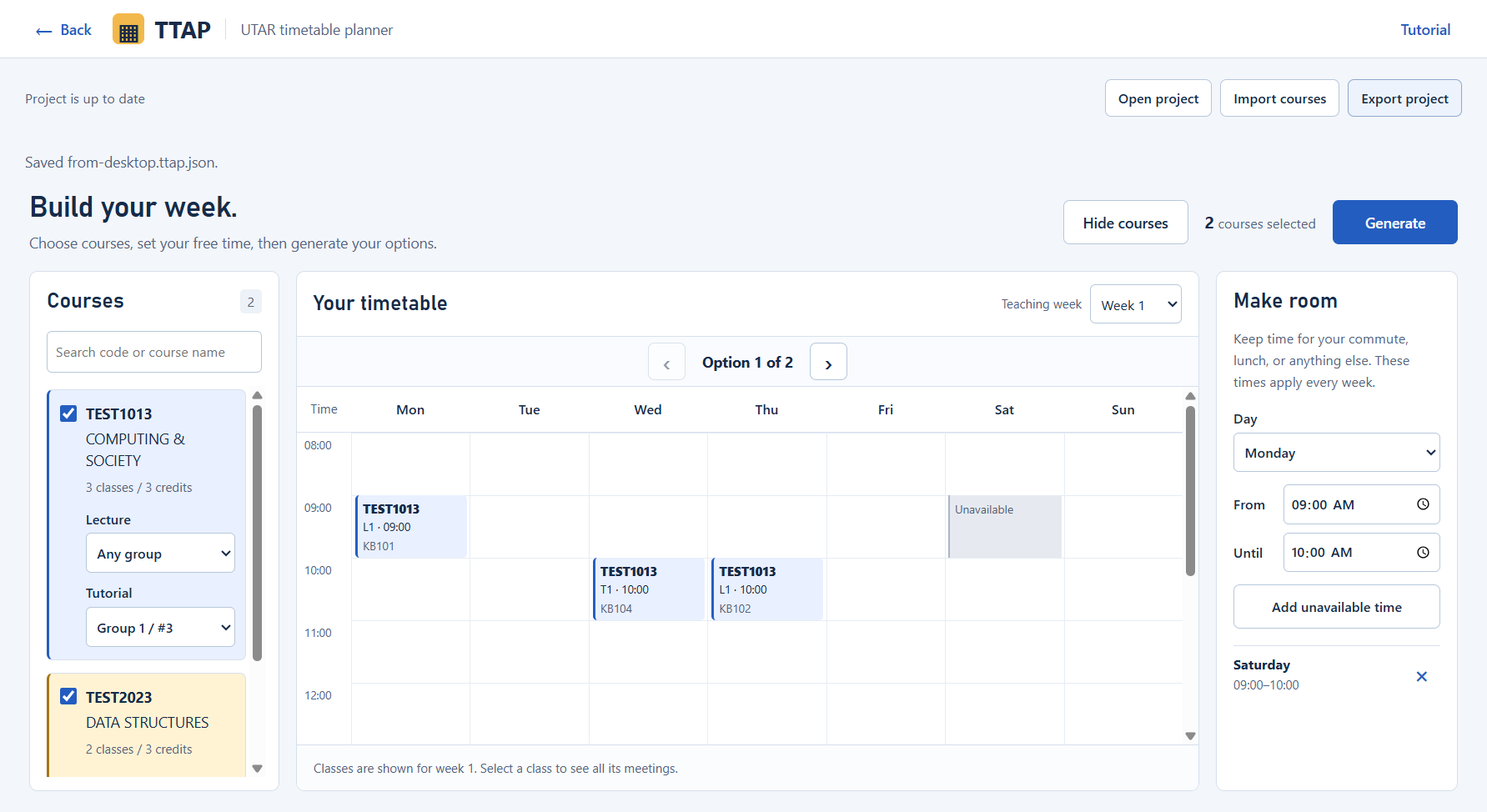
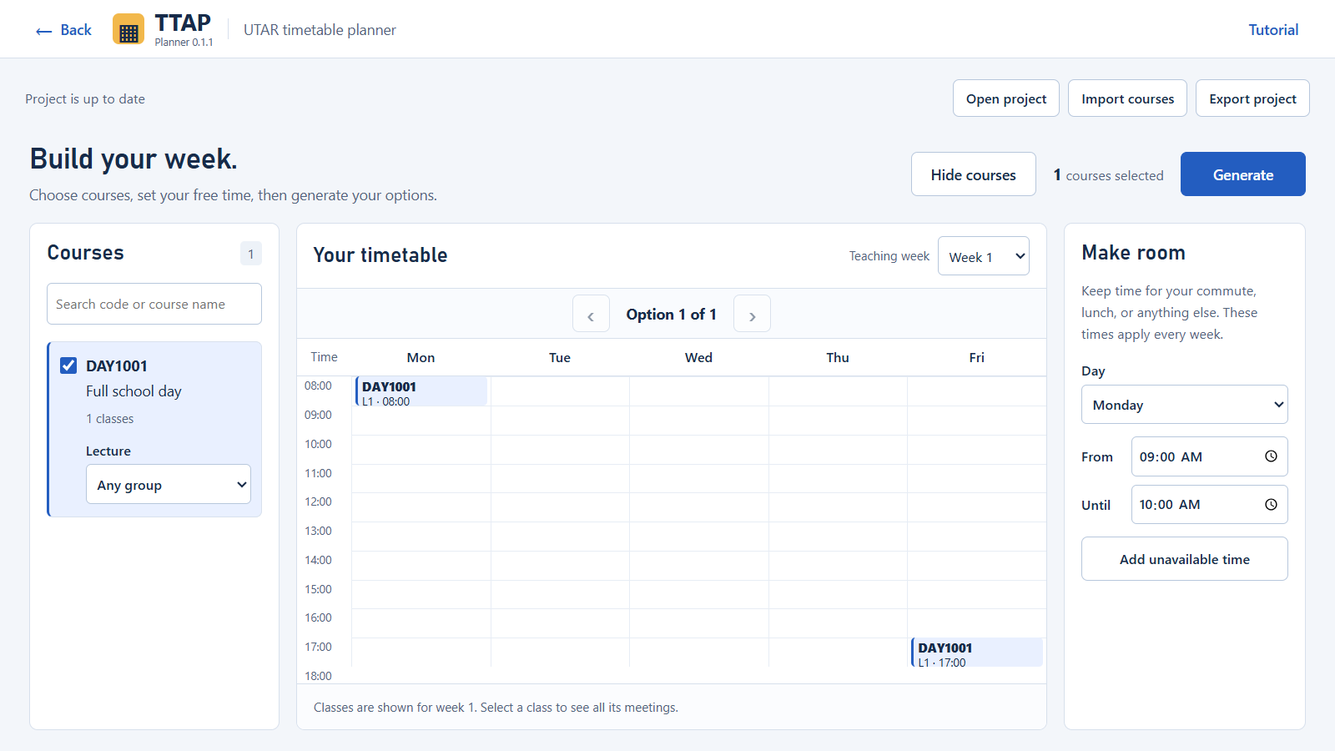
fix: refresh desktop builds and fit the full school day

diff --git a/app/src/renderer/styles.css b/app/src/renderer/styles.css
@@ -58,6 +58,8 @@ p { color: var(--muted); line-height: 1.6; }
   background: var(--paper);
 }
 .brand { display: flex; align-items: center; gap: 10px; font-size: 22px; font-weight: 750; text-decoration: none; }
+.brand-name { display: grid; line-height: 1.1; }
+.brand-version { margin-top: 2px; color: var(--muted); font-size: 10px; font-weight: 400; white-space: nowrap; }
 .header-start { display: flex; align-items: center; gap: 12px; min-width: 0; }
 .back-button { display: flex; align-items: center; gap: 6px; padding: 6px 8px; }
 .back-button span { font-size: 22px; line-height: 1; }
@@ -214,25 +216,25 @@ textarea { min-width: 0; min-height: 210px; padding: 12px; border: 1px solid #b4
 .calendar-empty h3 { margin-bottom: 8px; font-size: 22px; }
 .calendar-empty p { max-width: 290px; margin: 0; }
 .calendar-scroll { max-height: clamp(280px, calc(100dvh - 370px), 680px); overflow: auto; scroll-padding-top: 44px; }
-.calendar { min-width: 700px; }
-.calendar-head, .calendar-body { display: grid; grid-template-columns: 52px repeat(7, minmax(0, 1fr)); }
-.calendar-head { position: sticky; top: 0; z-index: 2; height: 44px; align-items: center; border-bottom: 1px solid var(--line); background: white; text-align: center; }
+.calendar { display: flex; flex-direction: column; flex: 1; min-width: 0; }
+.calendar-head, .calendar-body { display: grid; grid-template-columns: 52px repeat(var(--day-count, 5), minmax(0, 1fr)); }
+.calendar-head { flex-shrink: 0; height: 36px; align-items: center; border-bottom: 1px solid var(--line); background: white; text-align: center; }
 .calendar-head b { font-size: 13px; font-weight: 600; }
 .calendar-head > span { color: var(--muted); font-size: 12px; }
-.calendar-body { position: relative; }
+.calendar-body { position: relative; flex: 1; min-height: 0; margin-bottom: 16px; }
 .time-axis, .day-column { position: relative; }
-.time-axis > span { position: absolute; left: 7px; padding-top: 4px; color: var(--muted); font-size: 11px; font-variant-numeric: tabular-nums; }
+.time-axis > span { position: absolute; left: 7px; color: var(--muted); font-size: 11px; line-height: 16px; font-variant-numeric: tabular-nums; }
 .day-column { border-left: 1px solid #e7edf5; }
 .hour-rule { position: absolute; width: 100%; border-top: 1px solid #e7edf5; }
 .meeting {
   position: absolute; left: 3px; right: 3px; z-index: 1;
   width: calc(100% - 6px); min-width: 0; min-height: 0;
-  padding: 5px; border: 0; border-left: 3px solid var(--course-color); border-radius: 4px;
+  padding: 2px 4px; border: 0; border-left: 3px solid var(--course-color); border-radius: 4px;
   background: var(--course-bg); color: var(--ink); line-height: 1.2; text-align: left; overflow: hidden;
 }
 .meeting:hover:not(:disabled) { border-color: var(--course-color); background: var(--course-bg); filter: brightness(.96); }
 .meeting strong, .meeting span, .meeting small { display: block; overflow: hidden; text-overflow: ellipsis; white-space: nowrap; }
-.meeting strong { margin-bottom: 3px; font-size: 12px; }
+.meeting strong { margin-bottom: 0; font-size: 12px; }
 .meeting span { font-size: 11px; font-weight: 400; }
 .meeting small { margin-top: 5px; color: var(--muted); font-size: 11px; font-weight: 400; }
 .tone-0 { --course-color: #235dc0; --course-bg: #e9f0ff; }
@@ -263,9 +265,9 @@ textarea { min-width: 0; min-height: 210px; padding: 12px; border: 1px solid #b4
 .schedule-panel { display: flex; flex-direction: column; min-height: 0; }
 .schedule-toolbar, .result-toolbar, .calendar-note, .limit-note, .no-results { flex-shrink: 0; }
 .weekly-timetable { display: flex; flex-direction: column; flex: 1; min-height: 0; overflow: hidden; }
-.calendar-scroll { flex: 1; min-height: 0; max-height: none; }
+.calendar-scroll { display: flex; flex: 1; min-height: 0; max-height: none; overflow-x: auto; overflow-y: hidden; }
 .calendar-empty { flex: 1; min-height: 0; overflow: auto; justify-content: safe center; }
-.class-details { max-height: 45%; flex-shrink: 0; overflow: auto; }
+.class-details { position: absolute; bottom: 0; left: 0; right: 0; z-index: 3; max-height: 80%; overflow: auto; }
 
 .project-dialog { width: calc(100% - 32px); max-width: 560px; padding: 24px; border: 1px solid var(--line); border-radius: 10px; color: var(--ink); box-shadow: 0 20px 80px #172b4933; }
 .project-dialog::backdrop { background: #172b4977; }
@@ -290,10 +292,11 @@ textarea { min-width: 0; min-height: 210px; padding: 12px; border: 1px solid #b4
   .app-header { padding: 0 16px; }
   .local-label { display: none; }
   main { padding: 12px 16px 24px; }
-  .project-actions { align-items: flex-start; flex-direction: column; gap: 8px; margin-bottom: 20px; }
+  .project-actions { align-items: flex-start; flex-direction: column; gap: 4px; margin-bottom: 8px; }
   .planner-title { align-items: flex-start; flex-direction: column; gap: 12px; }
   .planner-actions { width: 100%; justify-content: space-between; gap: 12px; }
   .planner-title h1 { font-size: 26px; }
+  .planner-title > div:first-child p, .calendar-note { display: none; }
   .calendar-scroll { max-height: none; }
   .welcome { margin: 16px auto 20px; }
   .welcome p { font-size: 14px; }
@@ -332,9 +335,11 @@ textarea { min-width: 0; min-height: 210px; padding: 12px; border: 1px solid #b4
   .project-actions button { flex: 1; padding: 6px; font-size: 12px; }
   .mobile-panels { gap: 6px; }
   .mobile-panels button { padding: 8px 6px; font-size: 13px; }
-  .schedule-toolbar { align-items: flex-start; flex-direction: column; gap: 8px; }
+  .schedule-toolbar { gap: 8px; padding: 8px; }
   .schedule-toolbar h2 { font-size: 18px; }
-  .schedule-toolbar label { width: 100%; justify-content: space-between; }
+  .schedule-toolbar label { gap: 4px; font-size: 11px; }
+  .schedule-toolbar select { width: 76px; }
+  .teaching-week-label { display: none; }
   .import-panel { padding: 16px; }
   .dropzone { padding: 20px 12px; }
   .preview-count { align-items: flex-start; flex-direction: column; gap: 4px; }

diff --git a/app/src/renderer/planner/TimetableView.tsx b/app/src/renderer/planner/TimetableView.tsx
@@ -1,4 +1,4 @@
-import {useState} from 'react';
+import {useState,type CSSProperties} from 'react';
 import type {BlockedPeriod,Course,Timetable} from '../../shared/model';
 import {dayNames,formatTime} from './ConstraintsPanel';
 import {typeName} from './CourseList';
@@ -8,16 +8,19 @@ export function TimetableView({courses,timetable,week,blocked=[]}:{courses:Cours
   const meetings=options.flatMap(item=>item.option.meetings.map(meeting=>({...item,meeting})));
   const first=Math.floor(Math.min(480,...meetings.map(m=>m.meeting.startMinute),...blocked.map(b=>b.startMinute))/60)*60;
   const last=Math.ceil(Math.max(1080,...meetings.map(m=>m.meeting.endMinute),...blocked.map(b=>b.endMinute))/60)*60;
-  const hours=Array.from({length:(last-first)/60+1},(_,n)=>first+n*60);const height=last-first;
+  const hours=Array.from({length:(last-first)/60+1},(_,n)=>first+n*60);
+  const days=dayNames.slice(0,meetings.some(m=>m.meeting.day>5)||blocked.some(b=>b.day>5)?7:5);
+  const top=(minute:number)=>`${(minute-first)/(last-first)*100}%`;
+  const position=(start:number,end:number)=>({top:top(start),height:`${(end-start)/(last-first)*100}%`});
   const details=options.find(o=>o.option.id===detail);
   return <section aria-label="Weekly timetable" className="weekly-timetable">
     {!timetable?<div className="calendar-empty"><span aria-hidden="true">▦</span><h3>A week that works for you.</h3><p>Select your courses and generate a timetable to get started.</p></div>:<>
-      <div className="calendar-scroll"><div className="calendar"><div className="calendar-head"><span>Time</span>{dayNames.map(d=><b key={d}>{d.slice(0,3)}</b>)}</div><div className="calendar-body" style={{height}}><div className="time-axis">{hours.slice(0,-1).map(t=><span key={t} style={{top:t-first}}>{formatTime(t)}</span>)}</div>
-        {dayNames.map((day,i)=><div className="day-column" key={day}>
-          {hours.slice(0,-1).map(t=><div className="hour-rule" key={t} style={{top:t-first}}/>)}
-          {blocked.filter(b=>b.day===i+1).map((b,n)=><div className="blocked-block" key={'blocked'+n} style={{top:b.startMinute-first,height:b.endMinute-b.startMinute}}>Unavailable</div>)}
-          {meetings.filter(m=>m.meeting.day===i+1 && m.meeting.weeks.includes(week)).map(({course,option,meeting,tone},n)=><button key={option.id+'-'+n} className={'meeting tone-'+tone%6} style={{top:meeting.startMinute-first,height:meeting.endMinute-meeting.startMinute}} onClick={()=>setDetail(option.id)} aria-expanded={detail===option.id} aria-label={`${course.code} ${course.name}, ${typeName(option.type)} group ${option.group}, ${formatTime(meeting.startMinute)} to ${formatTime(meeting.endMinute)}, ${meeting.room}`}><strong>{course.code}</strong><span>{option.type}{option.group} · {formatTime(meeting.startMinute)}</span>{meeting.endMinute-meeting.startMinute>=60&&<small>{meeting.room}</small>}</button>)}
-        </div>)}</div></div></div>
+      <div className="calendar-scroll"><div className="calendar" style={{'--day-count':days.length} as CSSProperties}><div className="calendar-head"><span>Time</span>{days.map(d=><b key={d}>{d.slice(0,3)}</b>)}</div><div className="calendar-body"><div className="time-axis">{hours.map(t=><span key={t} style={{top:top(t)}}>{formatTime(t)}</span>)}</div>
+        {days.map((day,i)=><section className="day-column" aria-label={day} key={day}>
+          {hours.slice(0,-1).map(t=><div className="hour-rule" key={t} style={{top:top(t)}}/>)}
+          {blocked.filter(b=>b.day===i+1).map((b,n)=><div className="blocked-block" key={'blocked'+n} style={position(b.startMinute,b.endMinute)}>Unavailable</div>)}
+          {meetings.filter(m=>m.meeting.day===i+1 && m.meeting.weeks.includes(week)).map(({course,option,meeting,tone},n)=><button key={option.id+'-'+n} className={'meeting tone-'+tone%6} style={position(meeting.startMinute,meeting.endMinute)} onClick={()=>setDetail(option.id)} aria-expanded={detail===option.id} aria-label={`${course.code} ${course.name}, ${typeName(option.type)} group ${option.group}, ${formatTime(meeting.startMinute)} to ${formatTime(meeting.endMinute)}, ${meeting.room}`}><strong>{course.code}</strong><span>{option.type}{option.group} · {formatTime(meeting.startMinute)}</span>{meeting.endMinute-meeting.startMinute>=60&&<small>{meeting.room}</small>}</button>)}
+        </section>)}</div></div></div>
       {meetings.every(m=>!m.meeting.weeks.includes(week))&&<p className="no-results">No classes in week {week}.</p>}
       {details&&<div className="class-details"><div><h3>{details.course.code} / {typeName(details.option.type)} group {details.option.group}</h3><button className="quiet" onClick={()=>setDetail(null)}>Close details</button></div><p>{details.course.name}</p><ul>{details.option.meetings.map((m,i)=><li key={i}>{dayNames[m.day-1]} {formatTime(m.startMinute)}–{formatTime(m.endMinute)} / {m.room||'Room not specified'} / Weeks {m.weeks.join(', ')}</li>)}</ul>{details.option.remark&&<p>{details.option.remark}</p>}</div>}
     </>}

diff --git a/app/tests/e2e/web.spec.ts b/app/tests/e2e/web.spec.ts
@@ -1,9 +1,26 @@
 import {test,expect} from '@playwright/test';
 import {readFile,writeFile} from 'node:fs/promises';
 import {resolve} from 'node:path';
-import {demo,configure,generate,downloadProject,openWebProject,readProject,expectCandidate,difficultProject,expectPrimaryActionInViewport} from './helpers';
+import {demo,configure,generate,downloadProject,openWebProject,readProject,expectCandidate,difficultProject,expectPrimaryActionInViewport,schoolDayProject,expectSchoolDayInViewport} from './helpers';
 
 test.beforeEach(async({page})=>{await page.goto('/');await page.getByRole('button',{name:'Skip tutorial'}).click();});
+
+test('Monday–Friday columns fit the whole 08:00–18:00 day after resizing',async({page},info)=>{
+  const path=info.outputPath('school-day.ttap.json');await writeFile(path,JSON.stringify(schoolDayProject()));await openWebProject(page,path);
+  await page.getByRole('button',{name:'Generate',exact:true}).click();await expect(page.getByText('Option 1 of 1')).toBeVisible();
+  for(const size of [{width:1280,height:720},{width:1024,height:600},{width:375,height:667},{width:320,height:667}]){
+    await page.setViewportSize(size);await expectSchoolDayInViewport(page);await page.screenshot({path:info.outputPath(`school-day-${size.width}.png`)});
+  }
+  await page.getByRole('region',{name:'Friday',exact:true}).getByRole('button').click();await expect(page.locator('.class-details').getByText('Full school day',{exact:true})).toBeVisible();await expectSchoolDayInViewport(page);await page.getByRole('button',{name:'Close details'}).click();await expectSchoolDayInViewport(page);
+  await page.setViewportSize({width:1024,height:600});
+  const extended=schoolDayProject();extended.courses[0].classes[0].meetings=[{day:6,startMinute:1080,endMinute:1200,weeks:[1],room:'Evening room'}];extended.selection.blocked=[{day:7,startMinute:420,endMinute:480}];
+  const extendedPath=info.outputPath('weekend-evening.ttap.json');await writeFile(extendedPath,JSON.stringify(extended));await openWebProject(page,extendedPath);await page.getByRole('button',{name:'Generate',exact:true}).click();
+  await expect(page.getByRole('region',{name:'Saturday',exact:true}).getByRole('button',{name:/18:00 to 20:00/})).toBeInViewport();
+  await expect(page.getByRole('region',{name:'Sunday',exact:true}).getByText('Unavailable')).toBeInViewport();
+  await expect(page.locator('.time-axis').getByText('07:00',{exact:true})).toBeInViewport();await expect(page.locator('.time-axis').getByText('20:00',{exact:true})).toBeInViewport();
+  expect(await page.locator('.calendar-scroll').evaluate(e=>e.scrollHeight<=e.clientHeight+1)).toBe(true);
+  await page.screenshot({path:info.outputPath('weekend-evening.png')});
+});
 
 test('opens registration inside the browser app and returns to the import form',async({page})=>{
   await page.route('https://unitreg.utar.edu.my/**',route=>route.fulfill({contentType:'text/html',body:'<!doctype html><h1>UTAR embedded test fixture</h1>'}));

diff --git a/app/tests/launcher.test.ts b/app/tests/launcher.test.ts
@@ -1,0 +1,30 @@
+// @vitest-environment node
+import {mkdtemp,mkdir,writeFile,utimes,rm} from 'node:fs/promises';
+import {join,resolve} from 'node:path';
+import {tmpdir} from 'node:os';
+import {spawnSync} from 'node:child_process';
+import {expect,it} from 'vitest';
+
+it.skipIf(process.platform!=='win32')('launcher detects current, stale and missing packages before opening a window',async()=>{
+  const directory=await mkdtemp(join(tmpdir(),'ttap-launcher-'));
+  expect(resolve(directory).startsWith(join(resolve(tmpdir()),'ttap-launcher-'))).toBe(true);
+  try{
+    await mkdir(join(directory,'src'),{recursive:true});await mkdir(join(directory,'release/win-unpacked/resources'),{recursive:true});
+    const source=join(directory,'src/renderer.tsx');const archive=join(directory,'release/win-unpacked/resources/app.asar');
+    await writeFile(source,'source');await writeFile(archive,'archive');await writeFile(join(directory,'release/win-unpacked/TTAP-Planner.exe'),'fixture; never executed');
+    const older=new Date(Date.now()-60000);const newer=new Date(Date.now()-30000);
+    await utimes(source,older,older);await utimes(archive,newer,newer);
+    for(const name of ['package.json','package-lock.json','index.html','electron.vite.config.ts','electron-builder.yml']){const path=join(directory,name);await writeFile(path,'fixture');await utimes(path,older,older);}
+    await utimes(join(directory,'src'),older,older);
+    const check=()=>spawnSync('powershell.exe',['-NoProfile','-ExecutionPolicy','Bypass','-File',resolve('scripts/start-ttap.ps1'),'-AppDirectory',directory,'-CheckOnly'],{encoding:'utf8',windowsHide:true});
+    const current=check();expect(current.stdout).toContain('Current');expect(current.status).toBe(0);
+    await utimes(source,new Date(),new Date());const stale=check();expect(stale.stdout).toContain('Stale');expect(stale.status).toBe(2);
+    await rm(source);const deleted=check();expect(deleted.stdout).toContain('Stale');expect(deleted.status).toBe(2);
+    await utimes(join(directory,'src'),older,older);await rm(join(directory,'electron-builder.yml'));const configDeleted=check();expect(configDeleted.stdout).toContain('Stale');expect(configDeleted.status).toBe(2);
+    await mkdir(join(directory,'node_modules/electron-builder'),{recursive:true});
+    await writeFile(join(directory,'package.json'),JSON.stringify({scripts:{'package:win':'node -e "process.exit(17)"'}}));
+    const failedBuild=spawnSync('powershell.exe',['-NoProfile','-ExecutionPolicy','Bypass','-File',resolve('scripts/start-ttap.ps1'),'-AppDirectory',directory],{encoding:'utf8',windowsHide:true});
+    expect(failedBuild.status).toBe(1);expect(failedBuild.stdout).toContain('Build failed. The previous package was not launched.');
+    await rm(archive);const missing=check();expect(missing.stdout).toContain('Missing');expect(missing.status).toBe(2);
+  }finally{await rm(directory,{recursive:true,force:true});}
+},15000);

diff --git a/app/tests/e2e/helpers.ts b/app/tests/e2e/helpers.ts
@@ -19,6 +19,26 @@ export async function expectPrimaryActionInViewport(page:Page){
   const height=await page.evaluate(()=>innerHeight);
   expect(box).not.toBeNull();expect(box!.y).toBeGreaterThanOrEqual(0);expect(box!.y+box!.height).toBeLessThanOrEqual(height);
 }
+export function schoolDayProject():Project{
+  const code='DAY1001';const id=JSON.stringify([code,'L','1','1']);
+  return {schemaVersion:1,sources:['Synthetic school-day fixture'],courses:[{code,name:'Full school day',classes:[{id,courseCode:code,type:'L',number:'1',group:'1',meetings:[{day:1,startMinute:480,endMinute:540,weeks:[1],room:'Morning room'},{day:5,startMinute:1020,endMinute:1080,weeks:[1],room:'Evening room'}]}]}],selection:{courseCodes:[code],lockedClassIds:[],blocked:[]}};
+}
+export async function expectSchoolDayInViewport(page:Page){
+  expect(await page.locator('.calendar-head b').allTextContents()).toEqual(['Mon','Tue','Wed','Thu','Fri']);
+  const frame=await page.locator('.calendar-scroll').boundingBox();expect(frame).not.toBeNull();
+  for(const time of ['08:00','18:00']){
+    const box=await page.locator('.time-axis').getByText(time,{exact:true}).boundingBox();expect(box).not.toBeNull();
+    expect(box!.y).toBeGreaterThanOrEqual(frame!.y-1);expect(box!.y+box!.height).toBeLessThanOrEqual(frame!.y+frame!.height+1);
+  }
+  expect(await page.locator('.calendar-scroll').evaluate(e=>e.scrollHeight<=e.clientHeight+1)).toBe(true);
+  expect(await page.locator('.time-axis span').evaluateAll(labels=>labels.every((label,i)=>i===0||labels[i-1].getBoundingClientRect().bottom<=label.getBoundingClientRect().top+1))).toBe(true);
+  for(const day of ['Monday','Friday']){
+    const column=page.getByRole('region',{name:day,exact:true});const box=await column.getByRole('button').boundingBox();
+    expect(box!.y).toBeGreaterThanOrEqual(frame!.y);expect(box!.y+box!.height).toBeLessThanOrEqual(frame!.y+frame!.height+1);
+  }
+  expect(frame!.y+frame!.height).toBeLessThanOrEqual(await page.evaluate(()=>innerHeight));
+  const week=await page.getByLabel('Teaching week').boundingBox();expect(week!.x+week!.width).toBeLessThanOrEqual(await page.evaluate(()=>innerWidth));
+}
 export async function downloadProject(page:Page,path:string){
   const event=page.waitForEvent('download');await page.getByRole('button',{name:'Export project'}).click();await (await event).saveAs(path);
   await page.getByRole('button',{name:'I kept the file'}).click();await expect(page.getByText('Project is up to date')).toBeVisible();

diff --git a/app/src/renderer/App.tsx b/app/src/renderer/App.tsx
@@ -7,6 +7,7 @@ import {Planner} from './planner/Planner';
 import {ProjectActions,ProjectDialog} from './ProjectActions';
 import {Tutorial} from './help/Tutorial';
 import {RegistrationScreen} from './registration/RegistrationScreen';
+import {version} from '../../package.json';
 
 type View='tutorial'|'import'|'planner'|'registration';
 
@@ -16,6 +17,7 @@ export function App(){
   const [importKey,setImportKey]=useState(0);const main=useRef<HTMLElement>(null);
   const [registrationSources,setRegistrationSources]=useState<HtmlSource[]|undefined>();
   const view=views.at(-1)!;
+  useEffect(()=>{document.title=`TTAP Planner ${version}`;},[]);
   function navigate(next:View){setViews(previous=>previous.at(-1)===next?previous:[...previous,next]);}
   function back(){setViews(previous=>previous.length>1?previous.slice(0,-1):previous);}
   function finishTutorial(){if(views.length===1)navigate('import');else back();}
@@ -74,7 +76,7 @@ export function App(){
   }
   return <><header className="app-header"><div className="header-start">
       {views.length>1&&<button className="back-button quiet" aria-label="Go back" onClick={back}><span aria-hidden="true">←</span> Back</button>}
-      <a className="brand" href="#" aria-label="TTAP UTAR timetable planner" onClick={e=>{e.preventDefault();navigate('import');}}><span className="brand-mark" aria-hidden="true">▦</span>TTAP<span className="brand-description">UTAR timetable planner</span></a>
+      <a className="brand" href="#" aria-label="TTAP UTAR timetable planner" onClick={e=>{e.preventDefault();navigate('import');}}><span className="brand-mark" aria-hidden="true">▦</span><span className="brand-name">TTAP<small className="brand-version">Planner {version}</small></span><span className="brand-description">UTAR timetable planner</span></a>
     </div>{view!=='tutorial'&&<button className="quiet tutorial-button" onClick={()=>navigate('tutorial')}>Tutorial</button>}</header>
     <main ref={main}><div className="project-bar" hidden={view==='tutorial'||view==='registration'}><ProjectActions hasProject={!!project} dirty={dirty} busy={busy} onOpen={open} onImport={()=>{setImportKey(k=>k+1);setRegistrationSources(undefined);navigate('import');}} onExport={()=>exportCurrent()}/></div>
       {error&&!pending&&<p className="error app-message" role="alert">{error}</p>}{notice&&<p className="app-message" role="status">{notice}</p>}

diff --git a/app/tests/e2e/electron.spec.ts b/app/tests/e2e/electron.spec.ts
@@ -1,10 +1,22 @@
 import {test,expect,_electron,type ElectronApplication} from '@playwright/test';
 import {resolve} from 'node:path';
 import {readFile,writeFile} from 'node:fs/promises';
-import {demo,configure,generate,downloadProject,openWebProject,readProject,expectCandidate,expectPrimaryActionInViewport} from './helpers';
+import {demo,configure,generate,downloadProject,openWebProject,readProject,expectCandidate,expectPrimaryActionInViewport,schoolDayProject,expectSchoolDayInViewport} from './helpers';
 let app:ElectronApplication;
 test.beforeEach(async()=>{app=await _electron.launch({executablePath:resolve('release/win-unpacked/TTAP-Planner.exe')});const page=await app.firstWindow();await page.getByRole('button',{name:'Skip tutorial'}).click();});
 test.afterEach(async()=>{if(app){await app.evaluate(({BrowserWindow})=>BrowserWindow.getAllWindows().forEach(w=>w.destroy())).catch(()=>{});await app.close();}});
+
+test('packaged Planner 0.1.1 fits Monday–Friday and 08:00–18:00 in the window',async({},info)=>{
+  const page=await app.firstWindow();await expect(page.getByText('Planner 0.1.1',{exact:true})).toBeVisible();await expect(page).toHaveTitle('TTAP Planner 0.1.1');
+  expect(await app.evaluate(({app})=>app.getVersion())).toBe('0.1.1');
+  const path=info.outputPath('school-day.ttap.json');await writeFile(path,JSON.stringify(schoolDayProject()));
+  await app.evaluate(({dialog},filePath)=>{dialog.showOpenDialog=async()=>({canceled:false,filePaths:[filePath]});},path);
+  await page.getByRole('button',{name:'Open project'}).click();await page.getByRole('button',{name:'Generate',exact:true}).click();await expect(page.getByText('Option 1 of 1')).toBeVisible();
+  for(const size of [[1280,720],[1024,600]]){
+    await app.evaluate(({BrowserWindow},[width,height])=>BrowserWindow.getAllWindows()[0].setContentSize(width,height),size);await expectSchoolDayInViewport(page);
+    await page.screenshot({path:info.outputPath(`school-day-native-${size[0]}.png`)});
+  }
+});
 
 test('official login, manual guide and reversible navigation work in the packaged app',async({},info)=>{
   const page=await app.firstWindow();const html=await readFile('tests/fixtures/student-v2.html','utf8');

diff --git a/app/src/renderer/planner/Planner.tsx b/app/src/renderer/planner/Planner.tsx
@@ -37,7 +37,7 @@ export function Planner({project,onChange}:{project:Project;onChange:(p:Project)
     <nav className="mobile-panels" aria-label="Planner panels">{(['courses','timetable','conditions'] as const).map(p=><button key={p} aria-pressed={p===panel} onClick={()=>{setPanel(p);if(p==='courses')setCollapsed(false);}}>{p==='courses'?'Courses':p==='timetable'?'Timetable':'Conditions'}</button>)}</nav>
     <div className={'planner-grid panel-'+panel+(collapsed?' courses-collapsed':'')}>
       <aside className="courses-panel" id={coursePanelId}><CourseList project={project} onChange={change}/></aside>
-      <div className="schedule-panel"><div className="schedule-toolbar"><h2>Your timetable</h2><label>Teaching week<select aria-label="Teaching week" value={shownWeek} onChange={e=>setWeek(Number(e.target.value))}>{(weeks.length?weeks:[1]).map(w=><option value={w} key={w}>Week {w}</option>)}</select></label></div>
+      <div className="schedule-panel"><div className="schedule-toolbar"><h2>Your timetable</h2><label><span className="teaching-week-label">Teaching week</span><select aria-label="Teaching week" value={shownWeek} onChange={e=>setWeek(Number(e.target.value))}>{(weeks.length?weeks:[1]).map(w=><option value={w} key={w}>Week {w}</option>)}</select></label></div>
         <div className="result-toolbar" aria-live="polite">
           {status==='running'?<span>Finding your options…</span>:count>0?<><button aria-label="Previous timetable" disabled={index===0} onClick={()=>setIndex(i=>i-1)}>‹</button><strong>Option {index+1} of {count}</strong><button aria-label="Next timetable" disabled={index===count-1} onClick={()=>setIndex(i=>i+1)}>›</button></>:<span>{status==='stale'?'Conditions changed. Generate a new timetable.':'Your schedule will appear here.'}</span>}
         </div>

diff --git a/app/tests/planner/TimetableView.test.tsx b/app/tests/planner/TimetableView.test.tsx
@@ -1,0 +1,22 @@
+import {render,screen} from '@testing-library/react';
+import {expect,it} from 'vitest';
+import {TimetableView} from '../../src/renderer/planner/TimetableView';
+import {makeClass,makeMeeting} from '../fixtures/projects';
+
+it('defaults to Monday–Friday and labels both ends of the full 08:00–18:00 day',()=>{
+  const option=makeClass({meetings:[makeMeeting({startMinute:480,endMinute:540}),makeMeeting({day:5,startMinute:1020,endMinute:1080})]});
+  const {container}=render(<TimetableView courses={[{code:'TEST1013',name:'School day',classes:[option]}]} timetable={{classIds:[option.id]}} week={1}/>);
+  expect([...container.querySelectorAll('.calendar-head b')].map(e=>e.textContent)).toEqual(['Mon','Tue','Wed','Thu','Fri']);
+  expect(screen.getByText('08:00',{exact:true})).toBeInTheDocument();
+  expect(screen.getByText('18:00',{exact:true})).toBeInTheDocument();
+});
+
+it('keeps weekend and evening meetings visible when a timetable needs them',()=>{
+  const option=makeClass({meetings:[makeMeeting({day:6,startMinute:1080,endMinute:1200})]});
+  const {container}=render(<TimetableView courses={[{code:'TEST1013',name:'Evening class',classes:[option]}]} timetable={{classIds:[option.id]}} blocked={[{day:7,startMinute:420,endMinute:480}]} week={1}/>);
+  expect(container.querySelectorAll('.day-column')).toHaveLength(7);
+  expect(screen.getByText('07:00',{exact:true})).toBeInTheDocument();
+  expect(screen.getByText('20:00',{exact:true})).toBeInTheDocument();
+  expect(screen.getByRole('button',{name:/18:00 to 20:00/})).toBeInTheDocument();
+  expect(screen.getByText('Unavailable')).toBeInTheDocument();
+});

diff --git a/app/VERIFICATION.md b/app/VERIFICATION.md
@@ -7,13 +7,13 @@ course-only archived upstream rows were used; no UTAR account was accessed.
 | Check | Result |
 | --- | --- |
 | Strict TypeScript | Passed |
-| Unit/component tests | 120 passed in 17 files |
+| Unit/component tests | 123 passed in 19 files |
 | Production web build | Passed; separate worker emitted |
 | Production Electron build | Passed; sandbox-compatible CommonJS preload |
 | Windows directory packaging | Passed; official installed Electron runtime |
-| Chromium production workflows | 12 passed |
-| Firefox production workflows | 12 passed |
-| Packaged Windows workflows | 6 passed |
+| Chromium production workflows | 13 passed |
+| Firefox production workflows | 13 passed |
+| Packaged Windows workflows | 7 passed |
 | Browser bundle boundary | No Electron IPC, Node imports or global require |
 | Source whitespace check | Passed |
 
@@ -160,3 +160,39 @@ inside its parent bounds. [docs/registration.png](docs/registration.png) capture
 that view's actual content; it is not a composite window screenshot. No account
 or CAPTCHA was submitted. Authenticated timetable layouts, service expiry,
 popups and pagination remain unverified against the live service.
+
+## Launcher and full-day calendar — Planner 0.1.1
+
+The reported root `Start-TTAP.cmd` was executed before editing. Its processes
+resolved to this checkout's `app/release/win-unpacked/TTAP-Planner.exe`, and its
+archive already contained the local renderer, tutorial and integrated login.
+Opening the installed legacy application was not reproduced. The launcher did
+have no check for a stale package. It now compares source/build-input and source
+directory modification times with the archive, rejects missing build inputs,
+and rebuilds when needed. Tests cover current, changed, deleted and missing
+inputs and a failing rebuild that never launches the previous package. This is
+a local freshness check, not a remote update check or content-hash verification.
+
+The real launcher was exercised through `cmd.exe`: it reported `Stale`, built
+the application and opened the repository executable with window title
+`TTAP Planner 0.1.1`. A subsequent check reported `Current`. Rebuilding later
+encountered an open executable lock; after the user closed that window, the
+final Windows package built successfully.
+
+The calendar defaults to five Mon–Fri columns, with time rows spanning
+08:00–18:00. Its positions and durations scale with the available panel height;
+18:00 has a reserved endpoint label. Browser checks at 1280×720, 1024×600,
+375×667 and 320×667 verify both endpoint classes, all five day columns,
+non-overlapping hour labels, no vertical calendar overflow and an in-bounds week
+selector. Opening class details reproduced a compressed-axis regression; an
+overlay now leaves the calendar scale intact. Weekend/evening checks preserve
+Saturday classes, Sunday unavailable time and the 07:00–20:00 range.
+
+The packaged application verifies version 0.1.1 in app metadata, its header and
+window title, and the same full-day geometry at 1280×720 and 1024×600 client
+sizes. Final fresh validation passed strict types, **123 unit/component tests**,
+production web/Electron builds, Windows packaging and **33 runtime tests**
+(13 Chromium, 13 Firefox, 7 Windows). Existing native login, import, project
+exchange and dirty-close checks remain passing. [docs/planner.png](docs/planner.png)
+is the actual final packaged calendar; [docs/school-day-mobile.png](docs/school-day-mobile.png)
+shows the browser's compact layout. These use synthetic class data.

diff --git a/app/README.md b/app/README.md
@@ -14,7 +14,11 @@ The compact workspace keeps **Generate** beside the selected course count, above
 the timetable. On smaller screens, switch between **Courses**, **Timetable** and
 **Conditions**; the same Generate/Cancel action is available from every panel.
 Course names use 14px text, with 12px course codes and 11px metadata in the calendar.
-The calendar scrolls independently to retain readable day columns.
+The calendar defaults to **Mon–Fri columns and hourly rows from 08:00 to 18:00**.
+It scales to the available panel height and width, keeping the whole school day
+visible. Weekend classes or unavailable times add Saturday/Sunday automatically;
+earlier or later classes extend the time range. Select a class for its full details
+when the compact calendar truncates text.
 The application frame fits the available viewport. Long course lists, import
 instructions and timetable content scroll inside their own regions. Windows
 startup dimensions and minimum size are limited to the display's work area.
@@ -22,8 +26,13 @@ startup dimensions and minimum size are limited to the display's work area.
 ## Start
 
 On Windows, double-click **[Start-TTAP.cmd](../Start-TTAP.cmd)** in the repository
-root to open the packaged desktop app. It needs no terminal or Node.js once built.
-If the executable is missing, the launcher displays the commands to build it.
+root to open the packaged desktop app. The header and window title identify this
+release as **Planner 0.1.1**. The launcher checks the package against source and
+build-input modification times. If it is missing or older, it rebuilds before
+opening, using the installed Node.js and project dependencies. Build failures
+stay visible and do not fall back to the older package. A current package can
+start without Node.js. If dependencies are missing, the launcher prints the
+installation commands. It always targets this repository's `app/release/` folder.
 
 Use Node.js **24.15 or later** and npm 11 (verified with Node 24.20.0 / npm 11.5.2).
 Run these commands from the repository root:

diff --git a/app/REVIEW.md b/app/REVIEW.md
@@ -74,3 +74,19 @@ real login page loads in the attached view. Documentation was completed after
 the review. Installed TTAP was inspected read-only by the implementing agent;
 its runtime was not independently compared. These limits are recorded in
 [VERIFICATION.md](VERIFICATION.md).
+
+## Launcher freshness and full-day calendar — 2026-10-22
+
+A fresh read-only reviewer inspected the focused changes against `317938f`.
+It confirmed one P2: deleting a source file did not update any remaining file's
+timestamp, so the launcher could report the package as current. The regression
+failed before the fix. Freshness now includes source-directory timestamps and
+the presence of required build inputs. Tests also cover modified sources,
+missing packages and a failed rebuild that must not launch the previous package.
+
+The reviewer requested runtime evidence for class details and extended schedules.
+Opening details on a narrow screen reproduced overlapping hourly labels. Details
+now overlay the calendar rather than shrinking its time axis. The browser
+regression failed before this adjustment and passes after it, including closing
+details, Saturday/Sunday periods and an extended 07:00–20:00 range. No further
+source findings were reported. No second independent review was requested.
